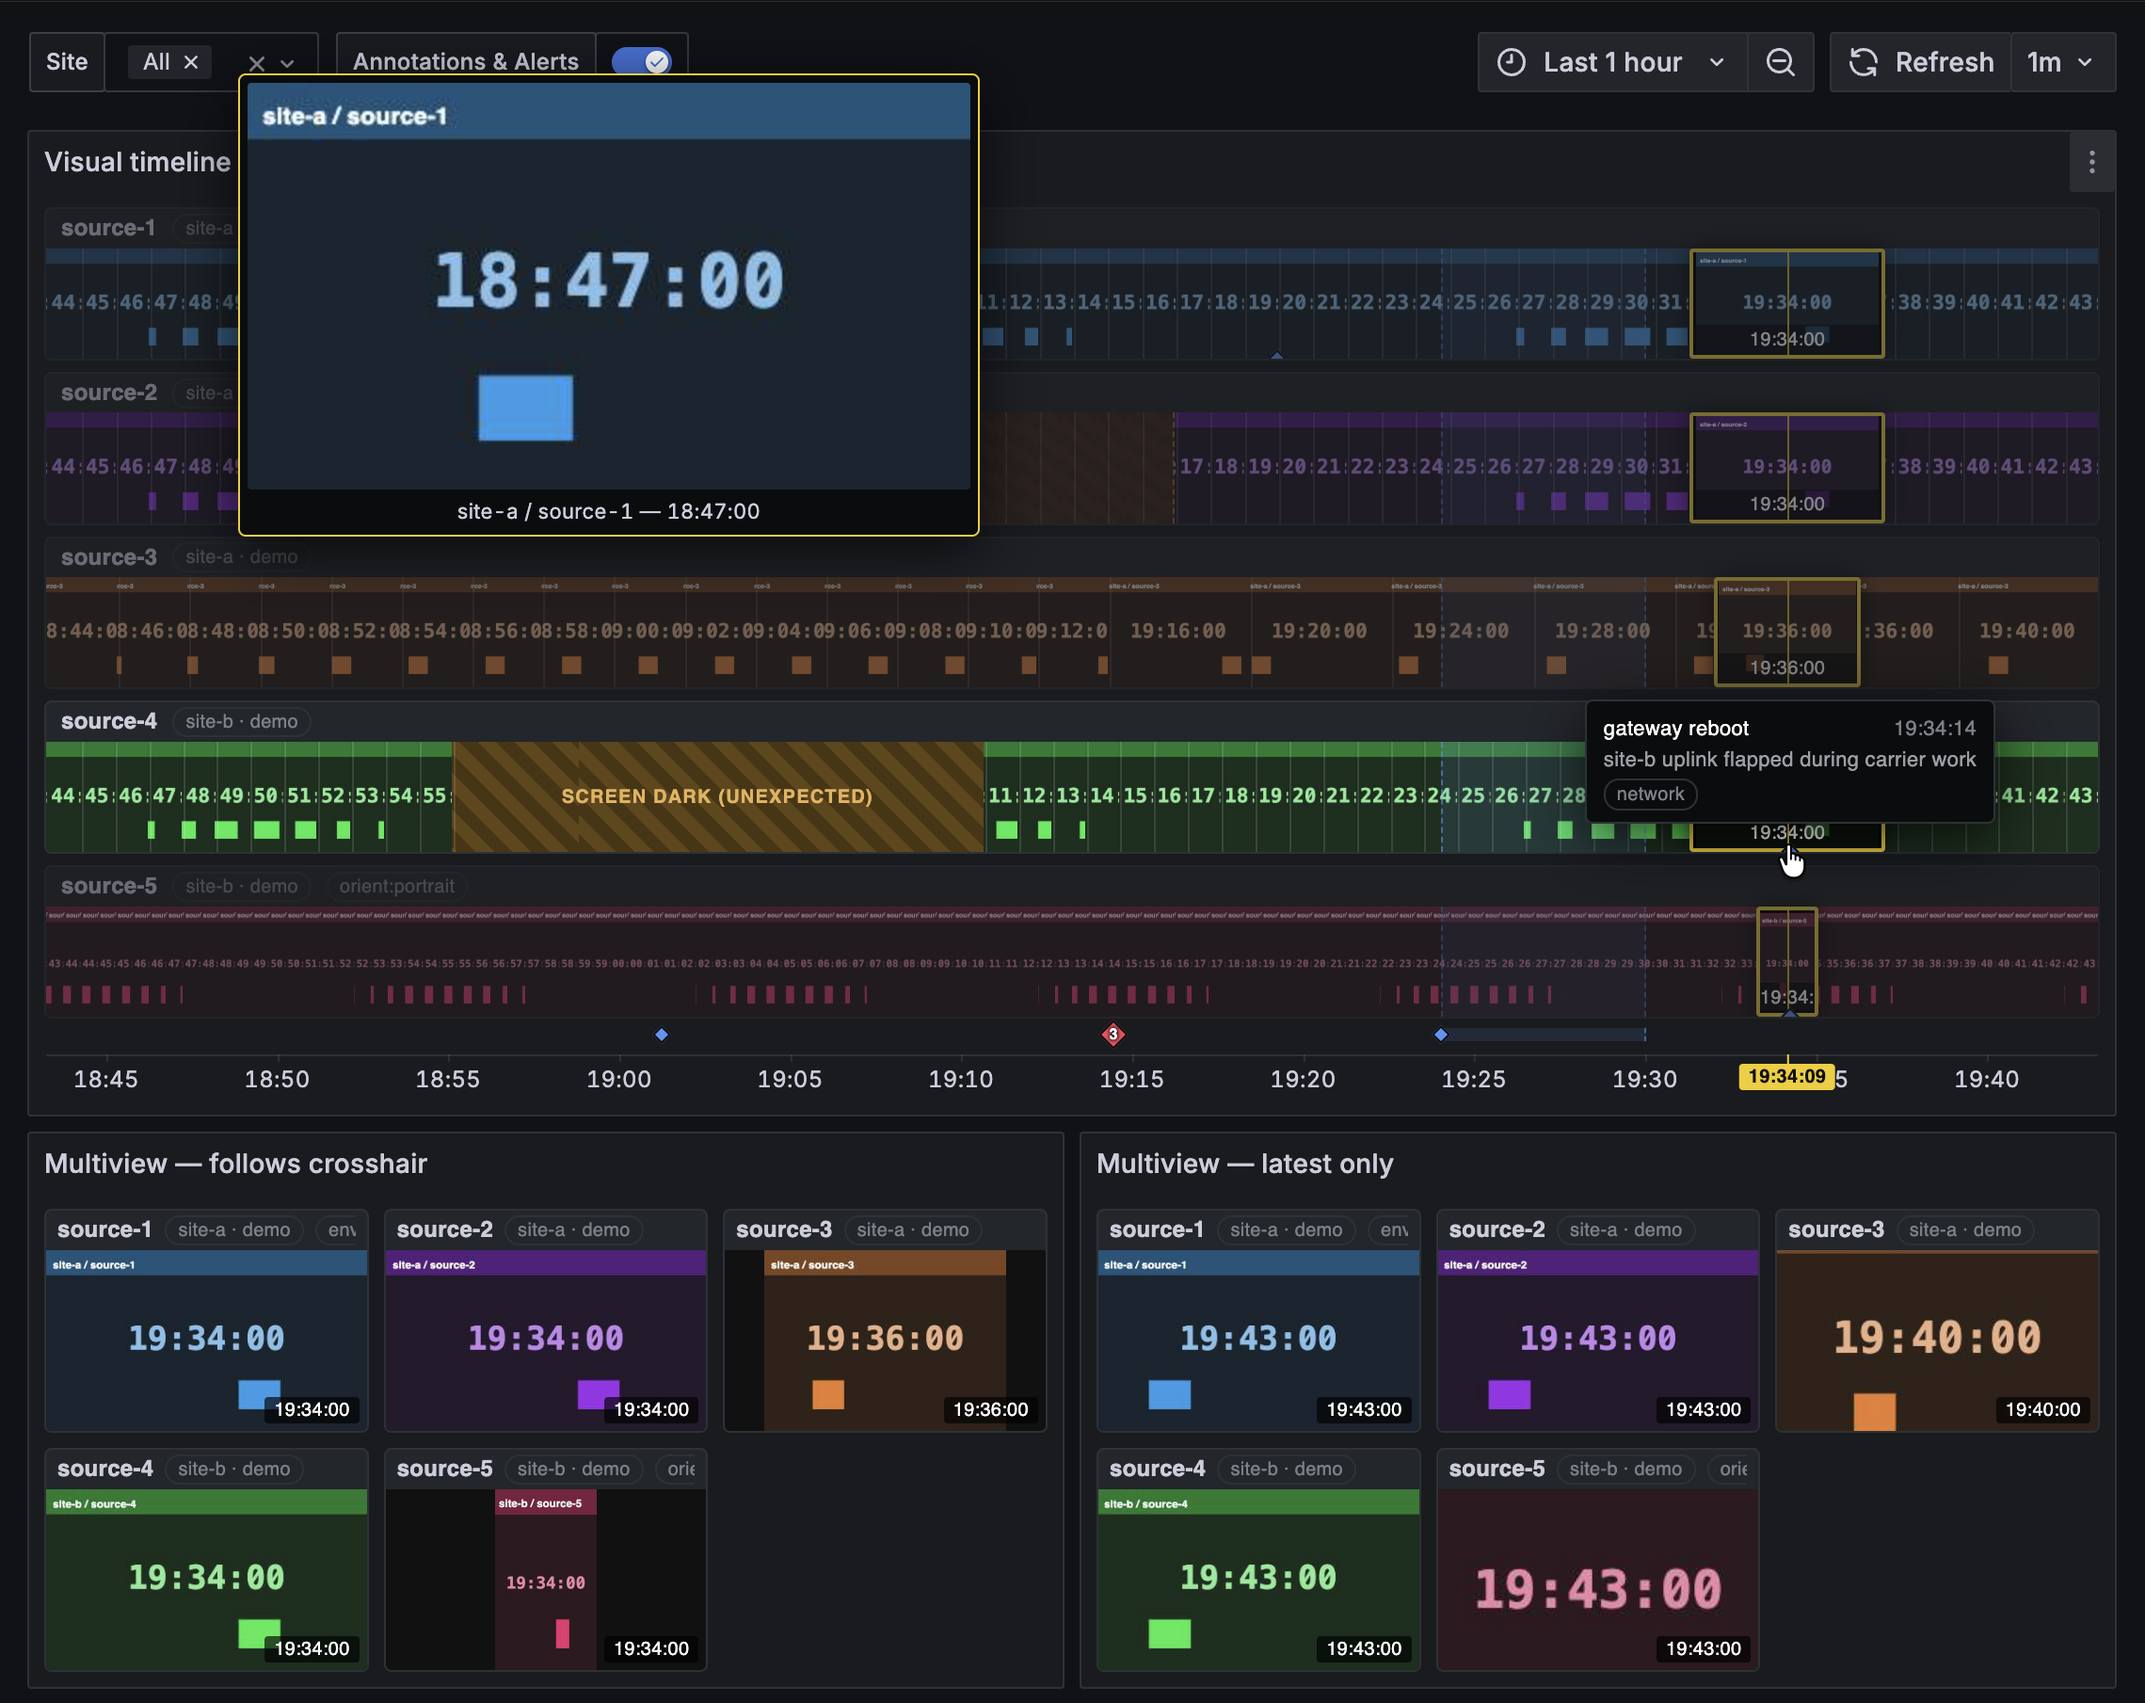
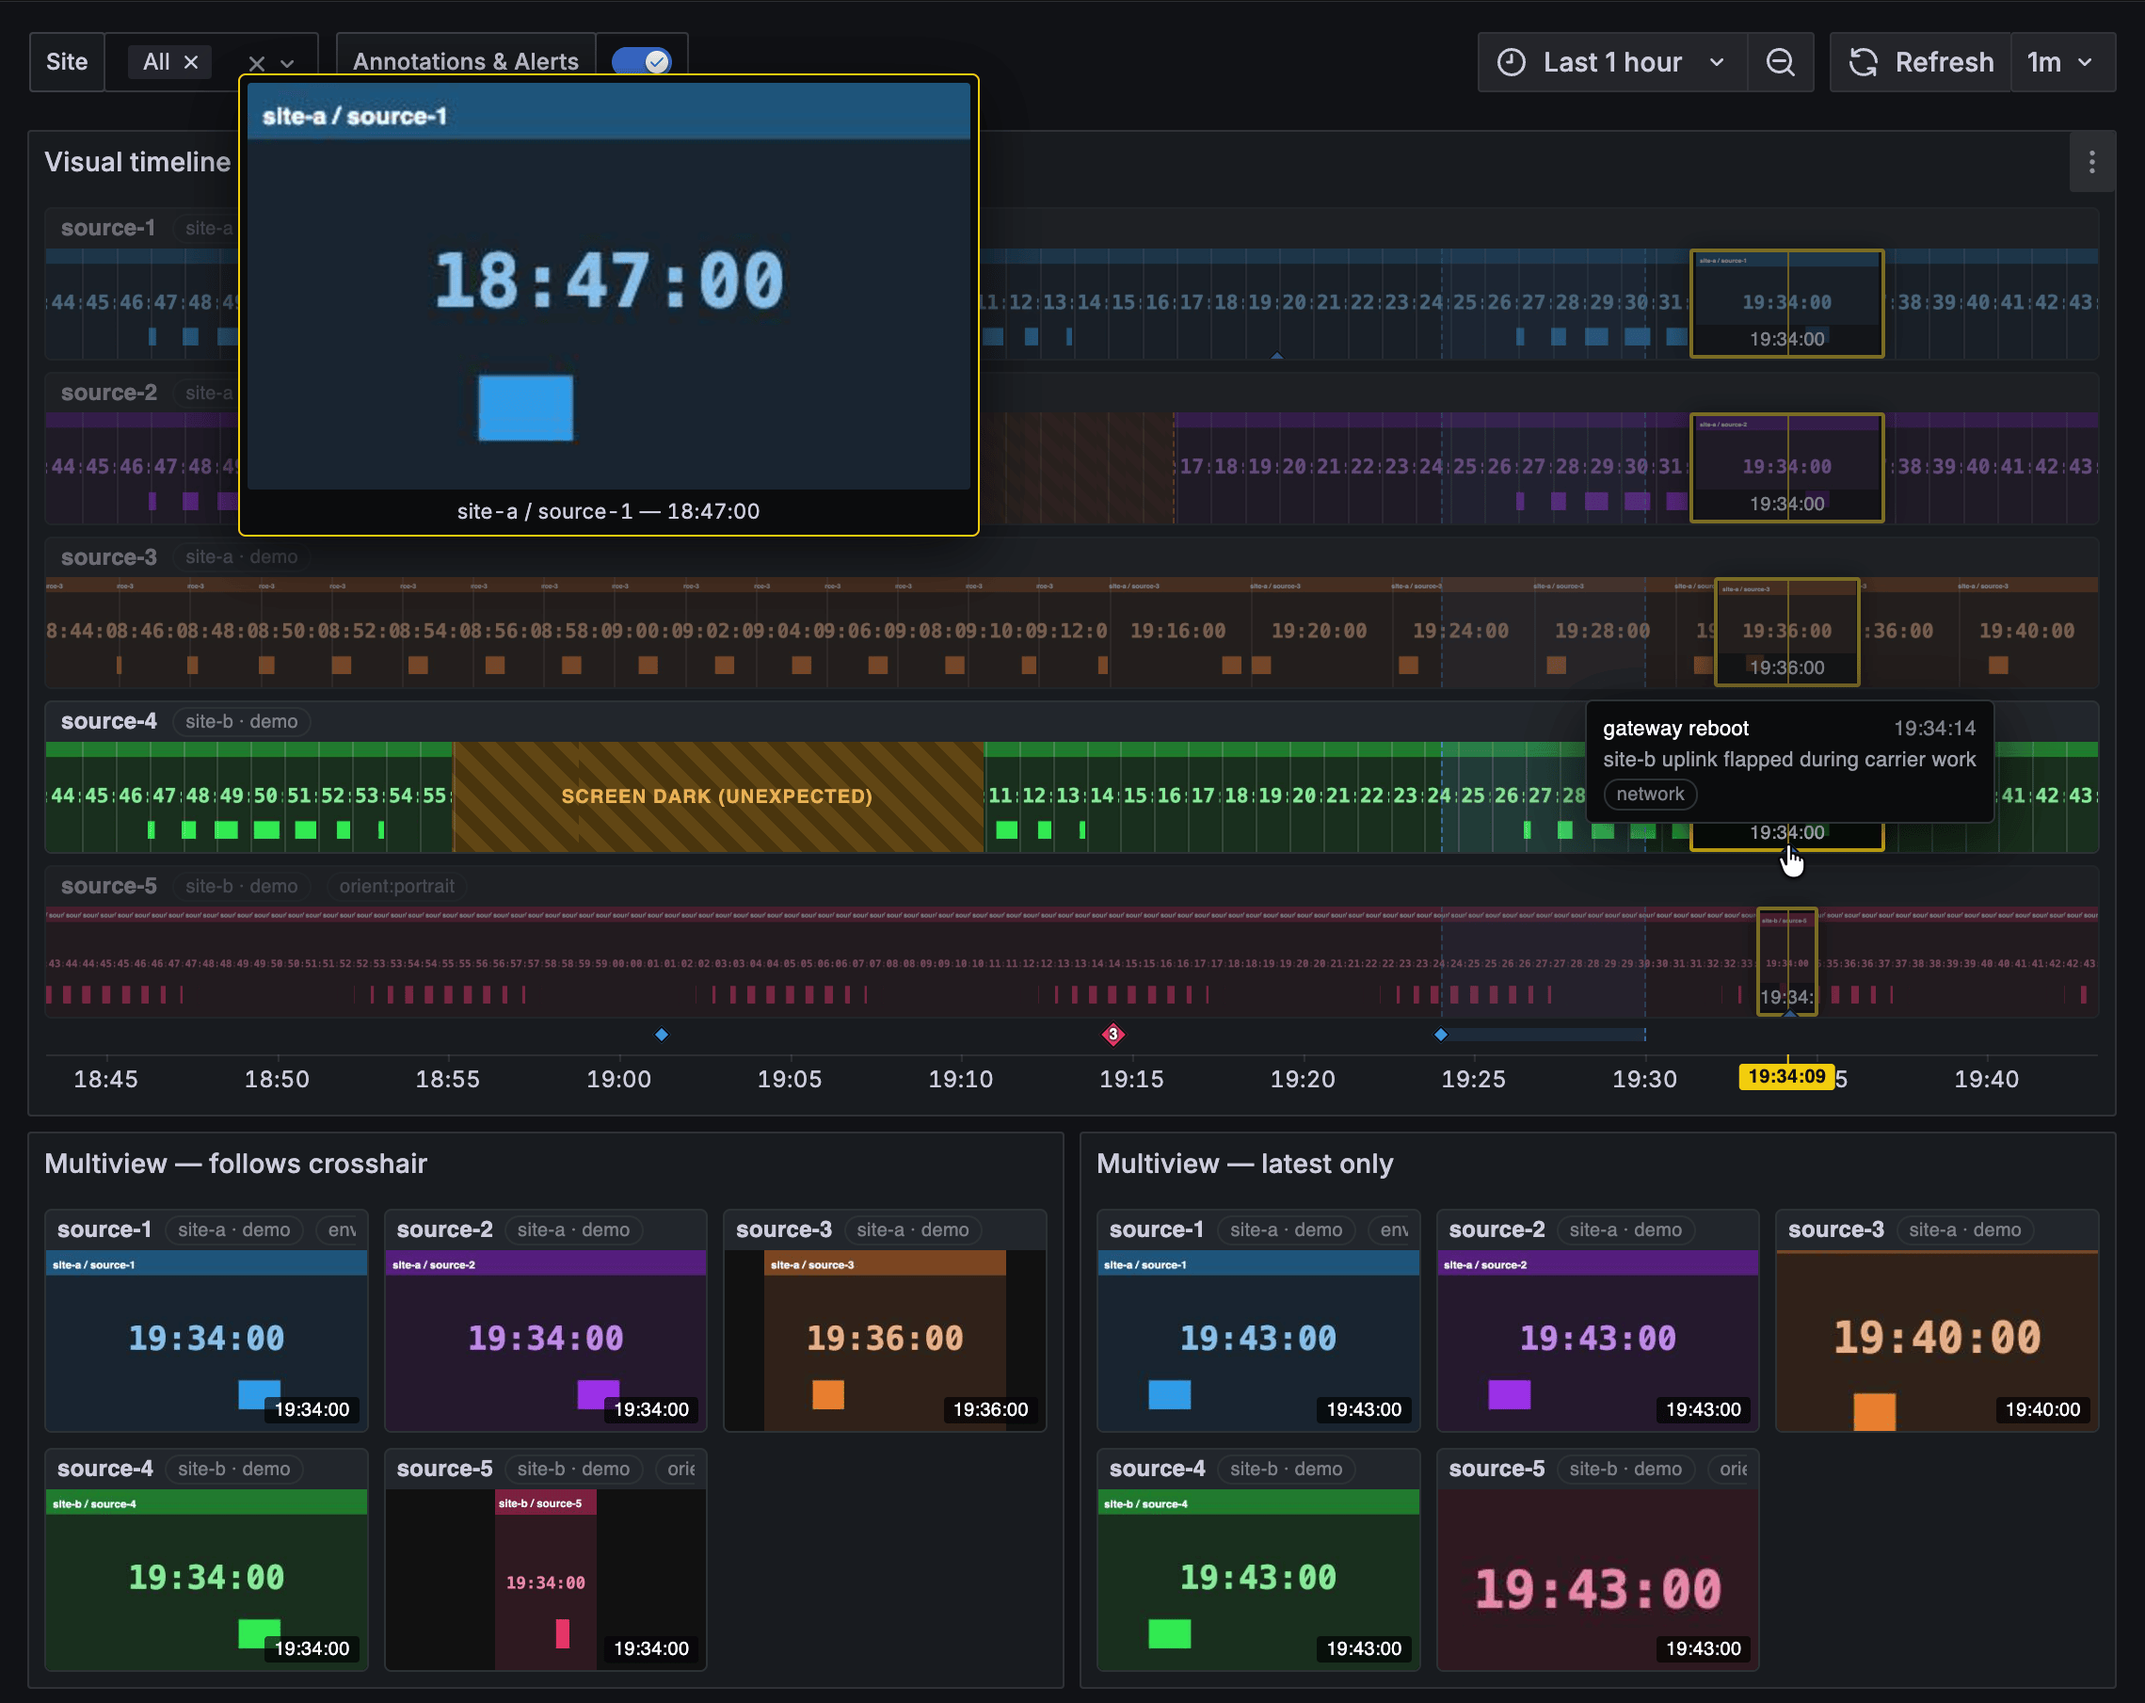
Catalog: add a light-theme dashboard screenshot (#87)
* Catalog: add a light-theme dashboard screenshot

src/img/screenshot-dashboard-light.png: the demo dashboard in Grafana's
light theme, from the current build (a934719), with the crosshair driven
from the random-walk panel so the timeline, the follow grid and the axis
all show it. pngquant --quality=80-95: 219 KB, under webpack's 244 KB
warning. Listed in info.screenshots; the dark entry's name now says so.

* Compress the dark catalog screenshot

pngquant --quality=80-95: 824 KB to 225 KB, same 2279x1809 image. The
dimmed source-4 strip comes out a little more saturated (the old shot
has many half-faded colours for a 256-colour palette); accepted. The
build no longer warns about asset size.

---------

diff --git a/docs/SUBMISSION.md b/docs/SUBMISSION.md
@@ -53,16 +53,15 @@ can't run):
       #77 (small quirks) is optional for 1.0.
 - [ ] **Screenshots, taken in a real Grafana** (`npm run server`, which
       needs Docker, then http://localhost:3000). The catalog shows
-      `info.screenshots` from `src/plugin.json`; today there is one dark
-      dashboard shot.
-  - [ ] Add a light-theme dashboard shot. Reviewers check both themes.
+      `info.screenshots` from `src/plugin.json`; there is a dark and a light
+      dashboard shot (the light one taken 2026-10-06 from `a934719`).
+  - [x] Add a light-theme dashboard shot. Reviewers check both themes.
   - [ ] Optionally add the data source config page and the grid with source
         time zones.
-  - [ ] Save them as PNGs in `src/img/` and list them in
+  - [x] Save them as PNGs in `src/img/` and list them in
         `src/plugin.json` `info.screenshots`.
-  - [ ] Compress them. `screenshot-dashboard.png` is 824 KB and webpack
-        warns about it; a lossless squeeze (e.g. `oxipng` or `pngquant`)
-        should roughly halve it.
+  - [x] Compress them (`pngquant --quality=80-95`): light 219 KB, dark
+        225 KB, both under webpack's 244 KB warning.
 - [ ] Optional: add a sponsor link (`info.links` entry named `sponsor`). The
       validator suggests one; it isn't required. Owner's call.
 - [ ] Branch protection: if it requires a check called `compatibilitycheck`,
